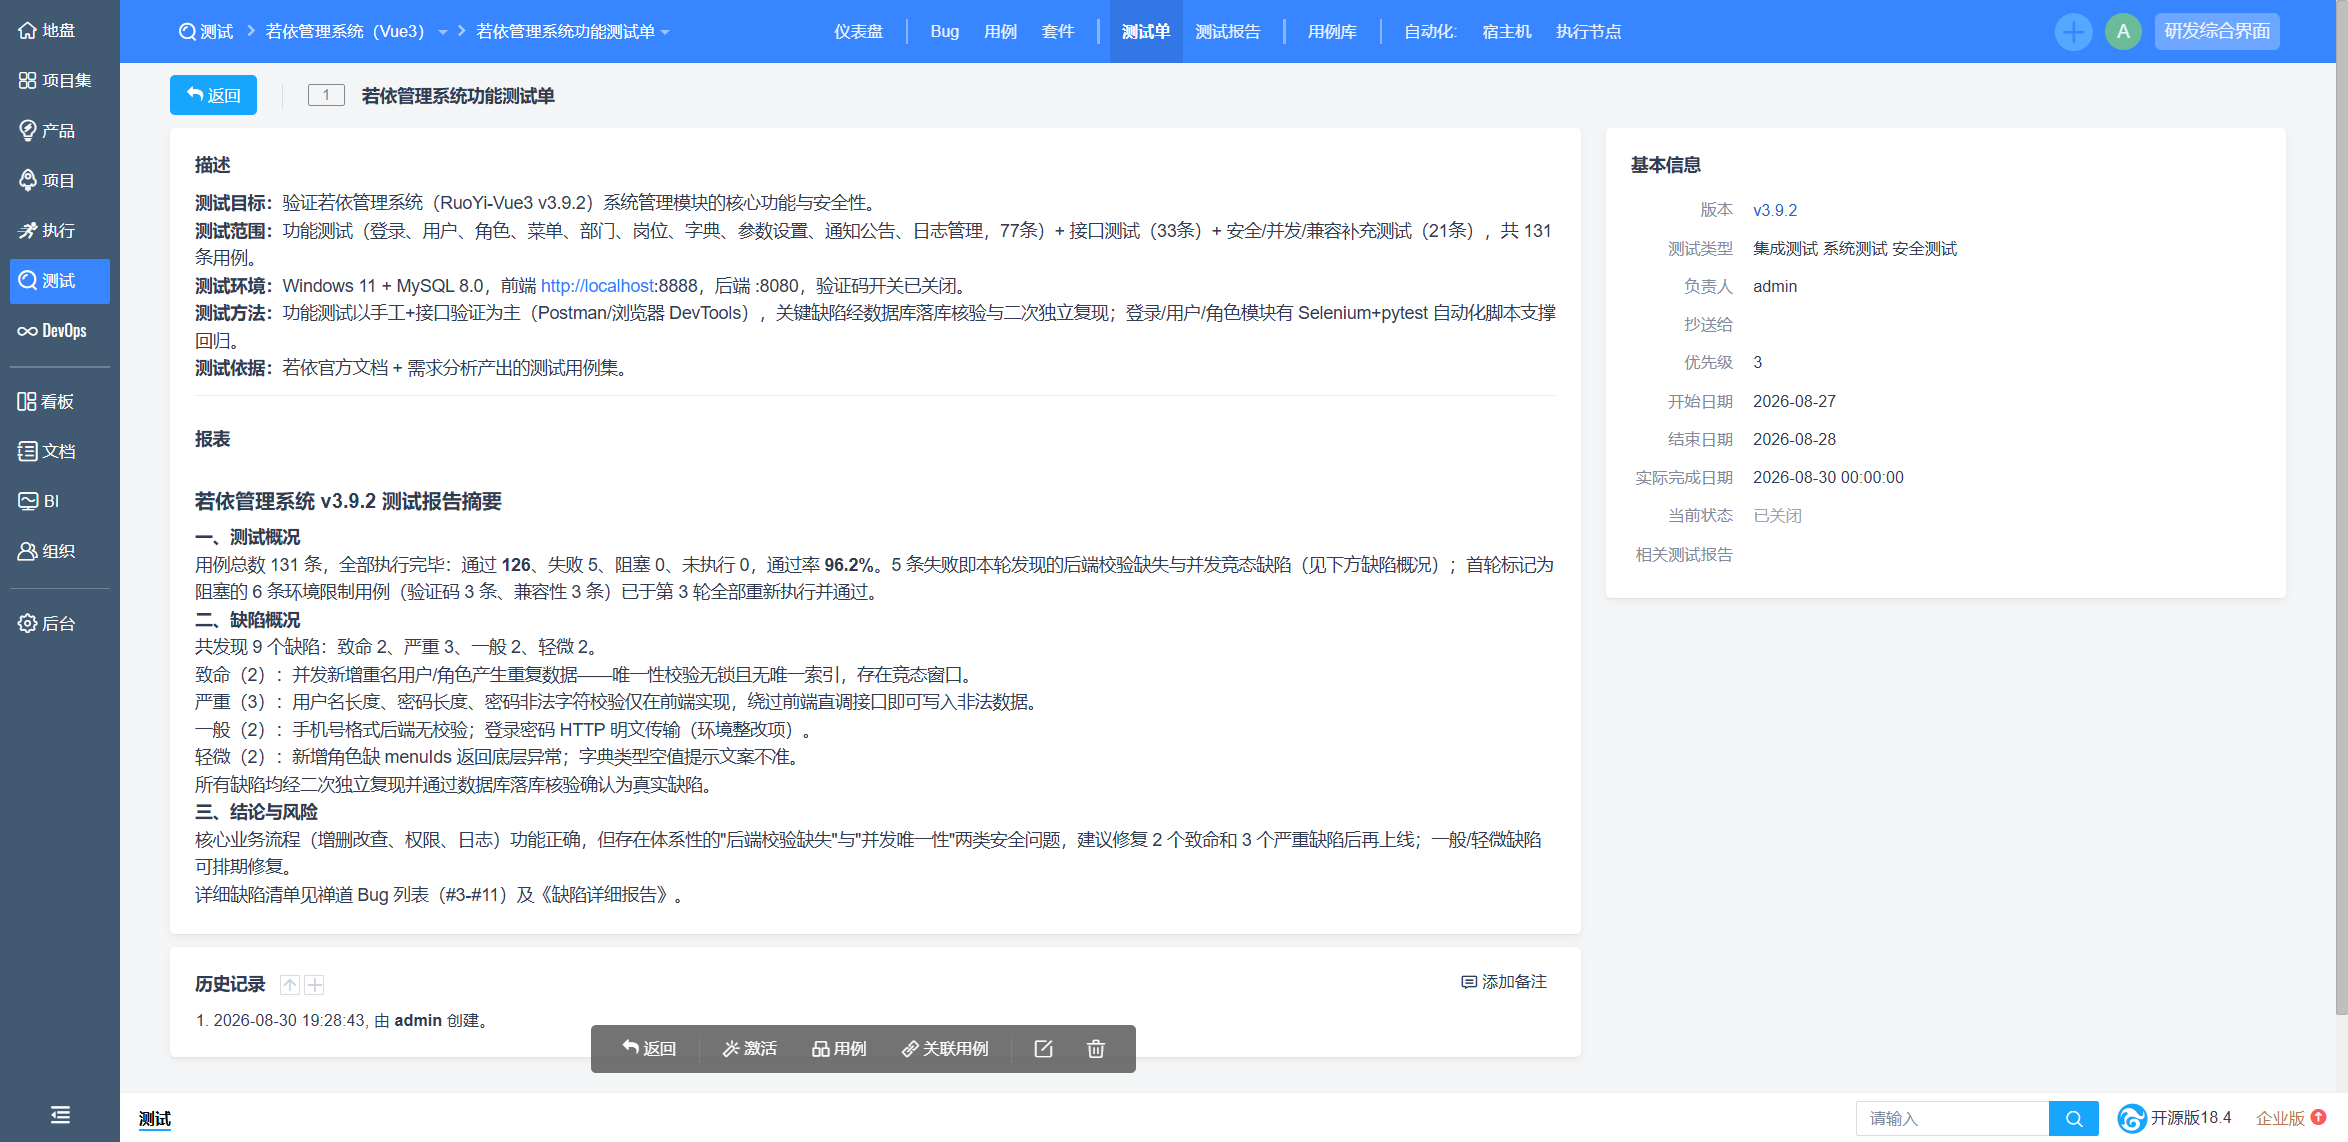
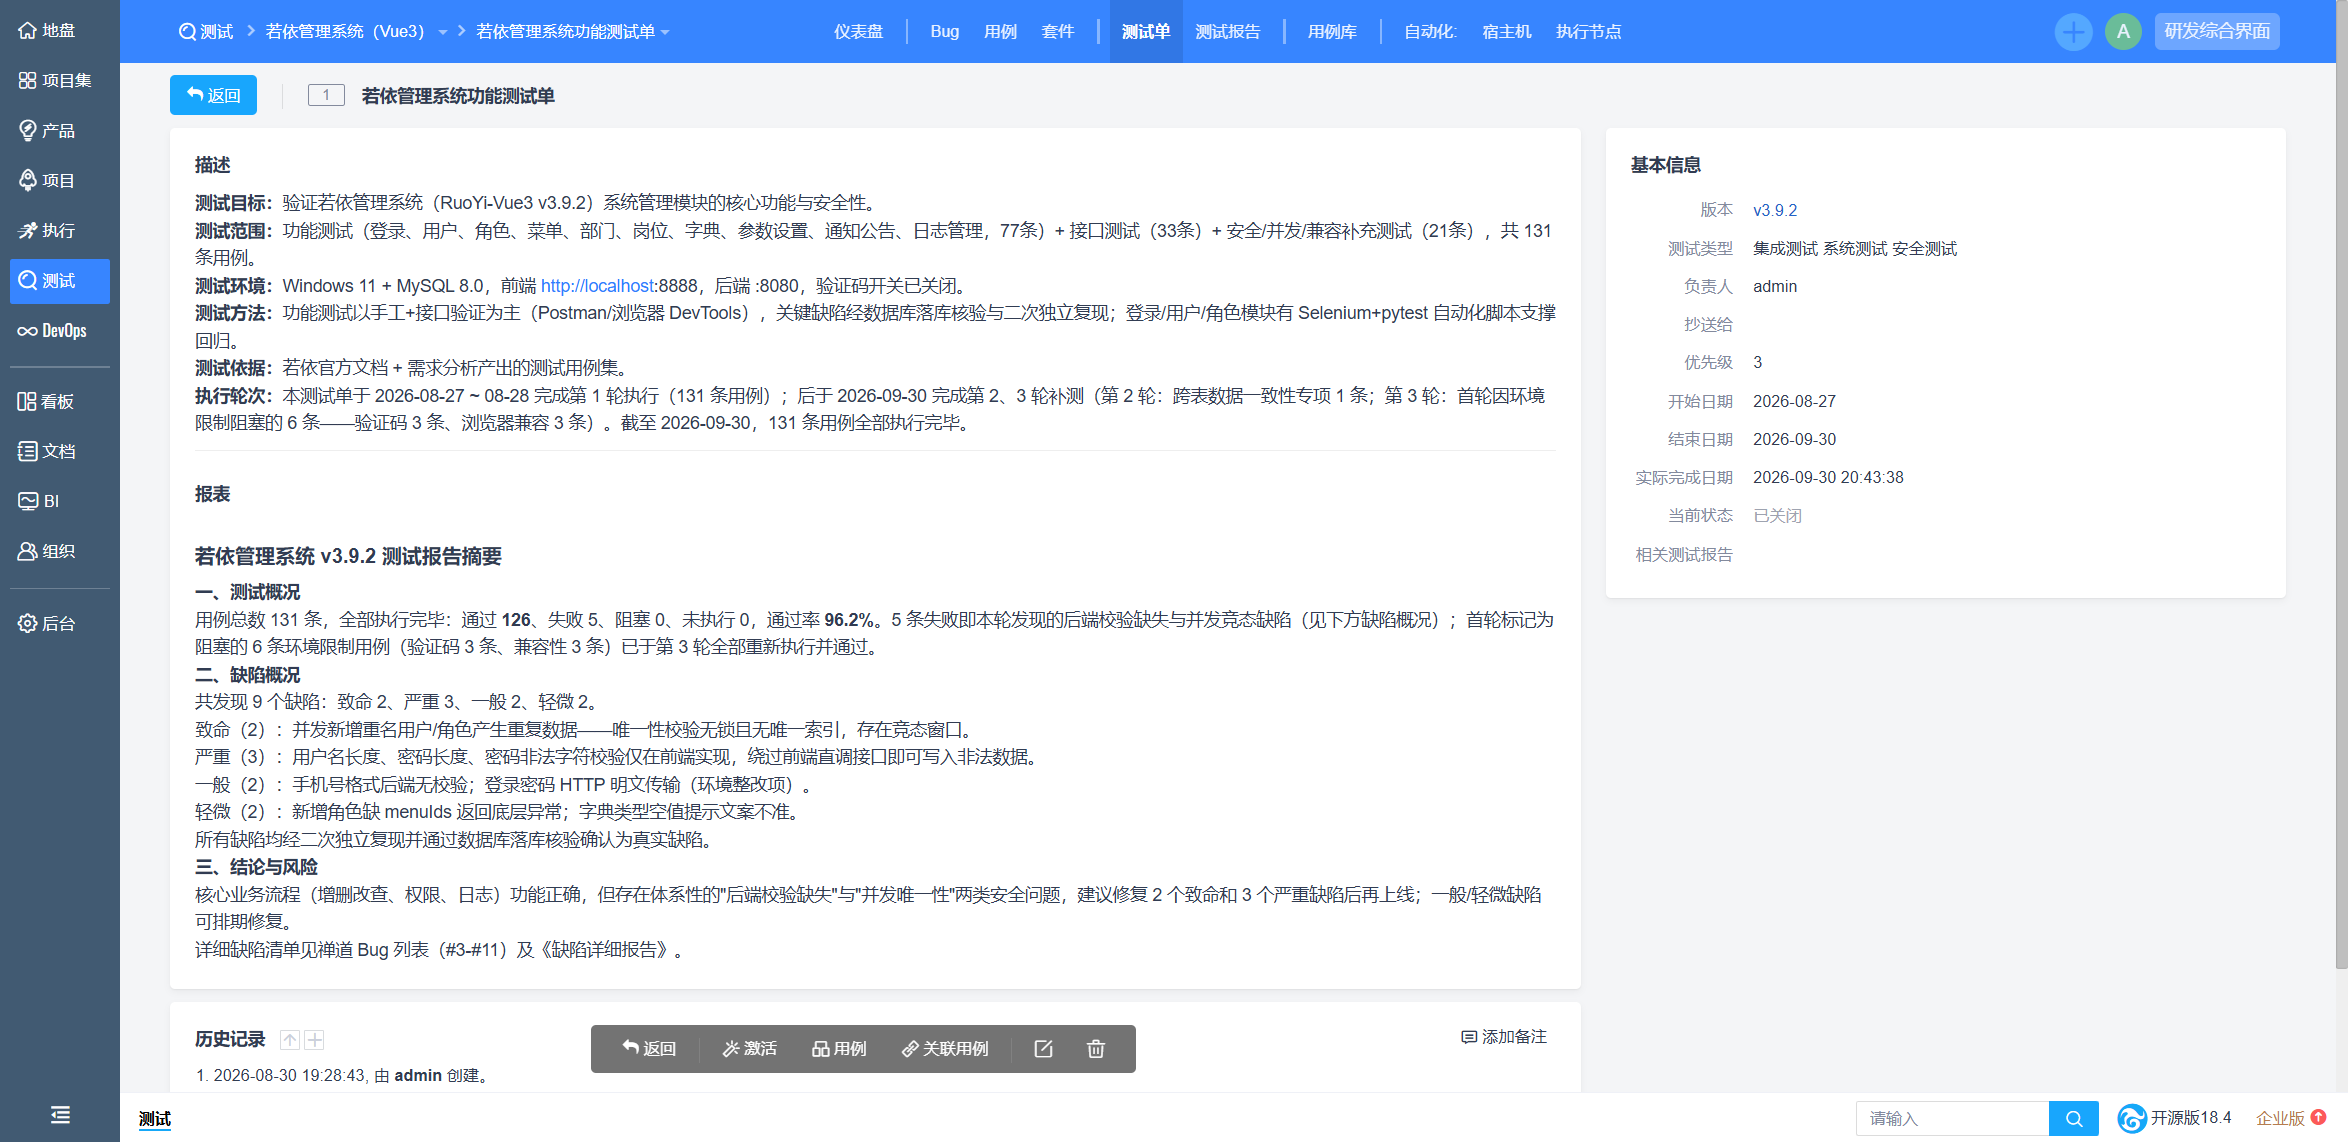
修复审查发现的问题（P1/P4/P7）：测试单时间线、浏览器措辞、测试人员署名
- P7：docs 两处"测试人员/测试人：蔡徐坤"→ 滕永瀚（与简历、GitHub 用户名、git 作者名一致）
- P1：测试单时间线矛盾修复——禅道测试单 end 改为 2026-09-30、realFinishedDate 同步，
  描述补充"执行轮次"说明；报告表头 测试轮次/测试日期/报告日期 同步为实际周期；
  重拍 03_zentao_testtask.png（页面已显示新日期）
- P4：README "三浏览器"措辞改准为"Chrome（主回归）+ Edge 154/Firefox 157（兼容专项）"

diff --git a/README.md b/README.md
@@ -18,7 +18,7 @@
 - **并发竞态缺陷**：并发新增重名用户/角色均成功写入，定位到唯一性校验无锁 + 无唯一索引的竞态窗口（致命 ×2）
 - **绕过前端校验**：直接调接口写入 1 位用户名、4 位弱密码、非法字符密码、乱码手机号并落库实证，暴露后端校验缺失的体系性问题（严重 ×3）
 - 每个关键缺陷都有数据库记录作为证据，非脚本误报（见 `docs/缺陷详细报告.md`）
-- **多浏览器兼容验证**：Chrome / Edge 154 / Firefox 157 三浏览器实测核心流程通过，1366×768 与 1920×1080 两种分辨率下无横向溢出、侧栏与表格渲染正常（截图见 `docs/screenshots/兼容性/`）
+- **多浏览器兼容验证**：Chrome（主回归：Selenium 14 条 UI 自动化）+ Edge 154 / Firefox 157（兼容专项：登录 + 用户管理核心流程），并覆盖 1366×768 与 1920×1080 两种分辨率，均无横向溢出、侧栏与表格渲染正常（截图见 `docs/screenshots/兼容性/`）
 - **性能瓶颈量化**：四档阶梯压测发现 **TPS 在 50 线程即饱和于约 60**（继续加压只增长响应时间、不增吞吐），瓶颈定位在**应用层 CPU**——单次登录耗 214ms CPU，其中 **bcrypt 密码哈希占 88%**（见 `performance/压测报告.md`）
 
 ## 效果截图

diff --git a/docs/若依管理系统测试报告.md b/docs/若依管理系统测试报告.md
@@ -3,16 +3,16 @@
 | 项 | 内容 |
 |---|---|
 | 被测系统 | 若依管理系统 RuoYi-Vue3 v3.9.2 |
-| 测试轮次 | 系统测试（第 1 轮） |
-| 测试日期 | 2026-08-27 ~ 2026-08-28 |
-| 测试人员 | 蔡徐坤 |
-| 报告日期 | 2026-08-30 |
+| 测试轮次 | 系统测试（共 3 轮：第 1 轮 2026-08-27~08-28；补测 2026-09-30） |
+| 测试日期 | 2026-08-27 ~ 2026-09-30 |
+| 测试人员 | 滕永瀚 |
+| 报告日期 | 2026-09-30（末次更新） |
 
 ---
 
 ## 一、测试概述
 
-本轮测试针对若依管理系统系统管理模块开展，覆盖功能测试、接口测试与补充测试（安全/并发/兼容）三个维度，共设计用例 131 条，实际执行 130 条。测试目标：验证核心业务流程的正确性，并通过绕过前端直调接口、并发请求等手段排查后端校验与数据安全缺陷。
+本次测试针对若依管理系统系统管理模块开展，覆盖功能测试、接口测试与补充测试（安全/并发/兼容）三个维度，共设计用例 131 条，**分 3 轮全部执行完毕**（第 1 轮 2026-08-27~08-28；第 2、3 轮补测 2026-09-30）。测试目标：验证核心业务流程的正确性，并通过绕过前端直调接口、并发请求等手段排查后端校验与数据安全缺陷。
 
 ## 二、测试环境
 

diff --git a/docs/缺陷详细报告.md b/docs/缺陷详细报告.md
@@ -1,6 +1,6 @@
 # 若依管理系统（RuoYi v3.9.2）缺陷详细报告
 
-> 报告日期：2026-08-28　|　测试人：蔡徐坤　|　共 9 个缺陷（致命 2 / 严重 3 / 一般 2 / 轻微 2）
+> 报告日期：2026-08-28　|　测试人：滕永瀚　|　共 9 个缺陷（致命 2 / 严重 3 / 一般 2 / 轻微 2）
 > 所有缺陷均经二次独立复现，并通过数据库落库核验确认为真实缺陷（非脚本误报）。
 
 ---
